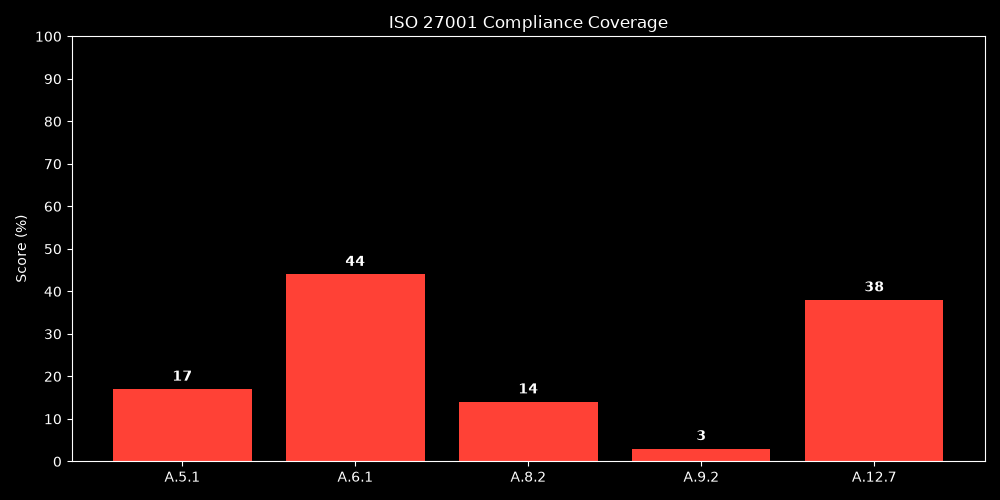
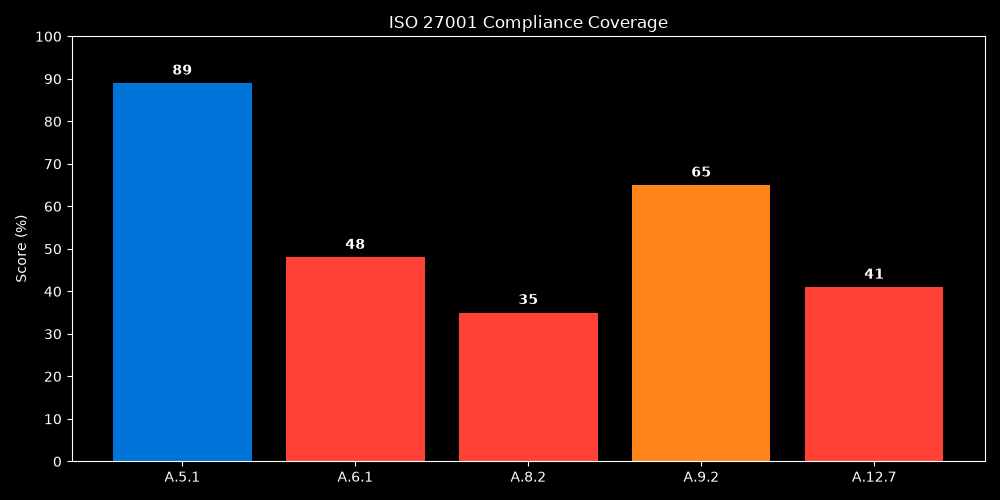
Automated dashboard update

Changed region(s): [[0.093, 0.12, 0.434, 0.93], [0.434, 0.33, 0.775, 0.93], [0.806, 0.54, 0.961, 0.6]]

diff --git a/README.md b/README.md
@@ -84,16 +84,16 @@ The **Zero Trust Dashboard** provides an automated, real-time view of an organiz
 ### 🗂 Metrics Table
 | Control | Domain | Score (%) |
 |---------|--------|-----------|
-| A.12.7 | Technical Vulnerability Management | 38 |
-| A.5.1 | InfoSec Policies | 17 |
-| A.6.1 | Org InfoSec | 44 |
-| A.8.2 | Risk Management | 14 |
-| A.9.2 | Access Control | 3 |
-| Application | Application | 17 |
-| Data | Data | 65 |
-| Device | Device | 86 |
-| Identity | Identity | 79 |
-| Network | Network | 70 |
+| A.12.7 | Technical Vulnerability Management | 41 |
+| A.5.1 | InfoSec Policies | 89 |
+| A.6.1 | Org InfoSec | 48 |
+| A.8.2 | Risk Management | 35 |
+| A.9.2 | Access Control | 65 |
+| Application | Application | 58 |
+| Data | Data | 27 |
+| Device | Device | 39 |
+| Identity | Identity | 11 |
+| Network | Network | 54 |
 
 ## 🚦 Color Codes
 